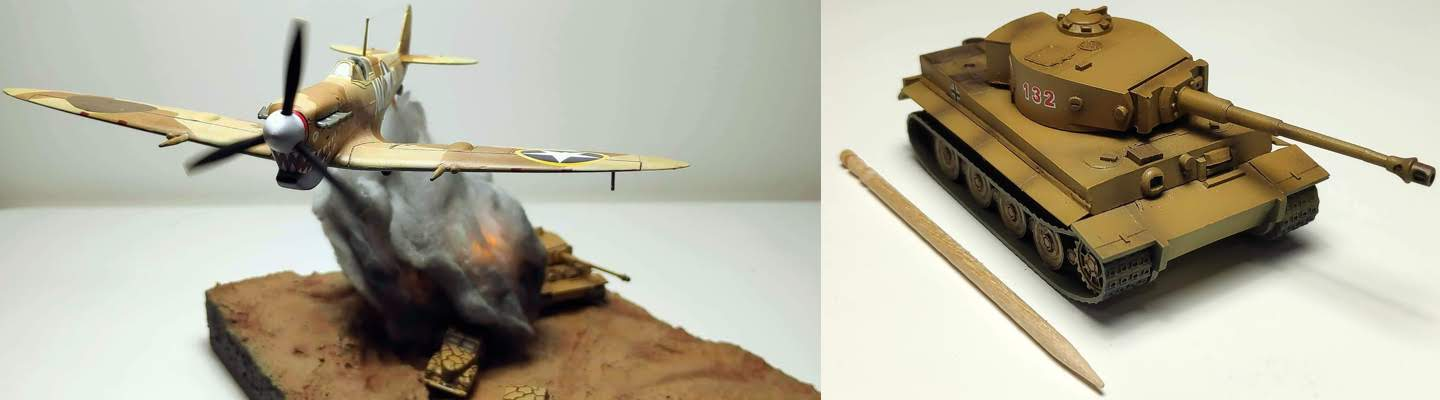
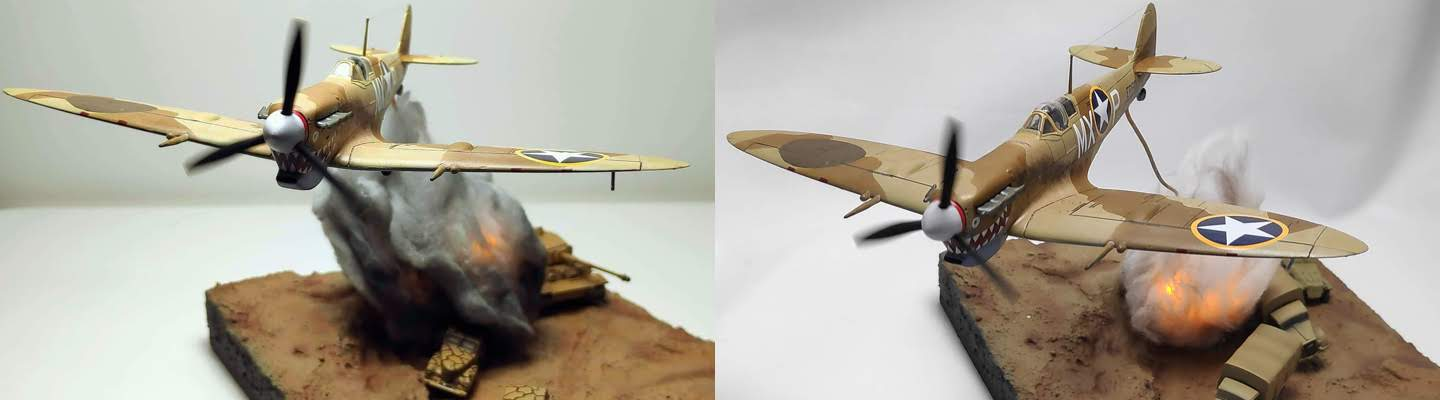
[Spitfire/Vc] update with 1:144 convoy

diff --git a/Kraft/Spitfire/Vc/README.md b/Kraft/Spitfire/Vc/README.md
@@ -208,9 +208,41 @@ How it now looks compared to the box art:
 
 ![build13f](./assets/build13f.jpg?raw=true)
 
+### Revised with a 1:144 Convoy
+
+I was interseted in pushing the forced-perspective experiment further with a 1:144 convoy.
+I picked up the new 2020 tool Pit-Road kit of
+[WWII German army military vehicles set 1 No. SGK02 1:144](https://www.scalemates.com/kits/pit-road-sgk02-wwii-german-army-military-vehicles-set-1--1305590).
+
+The molding is sublime, and the kit contains parts for 2 each of:
+
+* Kfz. 305 Opel Blitz
+* Pz.Kpfw. II Ausf. F
+* Sd.Kfz. 250
+* Sd.Kfz. 251
+
+I built a few of the vehicles and gave them a quick desert camo paintjob:
+
+![build14a](./assets/build14a.jpg?raw=true)
+
+NB: I did also checkout [Pit-Road WWII German Military Vehicle Set 1 No. MI02](https://www.scalemates.com/kits/pit-road-mi02-wwii-german-military-vehicle-set-1--1338389), but I think the 1:700 scale is a bit too extreme for this diorama.
+
+#### Updated Diorama (1:72, 1:144 Scale)
+
+Some updated shots with the new convoy vehicles and re-scaled the "explosion" to suit.
+
+![build14b](./assets/build14b.jpg?raw=true)
+
+The 1:72 to 1:144 forced-perspective seems to work even better; even closer to the box art.
+
+![build15a](./assets/build15a.jpg?raw=true)
+![build15b](./assets/build15b.jpg?raw=true)
+
 ## Credits and References
 
+* [this project on scalemates](https://www.scalemates.com/profiles/mate.php?id=74137&p=projects&project=122461)
 * [Supermarine Spitfire Mk.Vc; Airfix No. A02108, 1:72](https://www.scalemates.com/kits/airfix-a02108-supermarine-spitfire-mkvc--1260494)
 * [Opel Kapitän German staff car (hardtop); Hauler No. HTT120076, 1:120](https://www.scalemates.com/kits/hauler-htt120076-german-staff-car-hardtop-2-in-set--1200533)
 * [Tiger I Ausf. E; Hauler No. HTT120002, 1:120](https://www.scalemates.com/kits/hauler-htt120002-tiger-i-ausf-e--109252)
+* [WWII German army military vehicles set 1 Pit-Road, No. SGK02 1:144](https://www.scalemates.com/kits/pit-road-sgk02-wwii-german-army-military-vehicles-set-1--1305590)
 * [5mm Yellow Blinking Candle Effect LEDs](https://www.aliexpress.com/item/32782781815.html) from aliexpress
